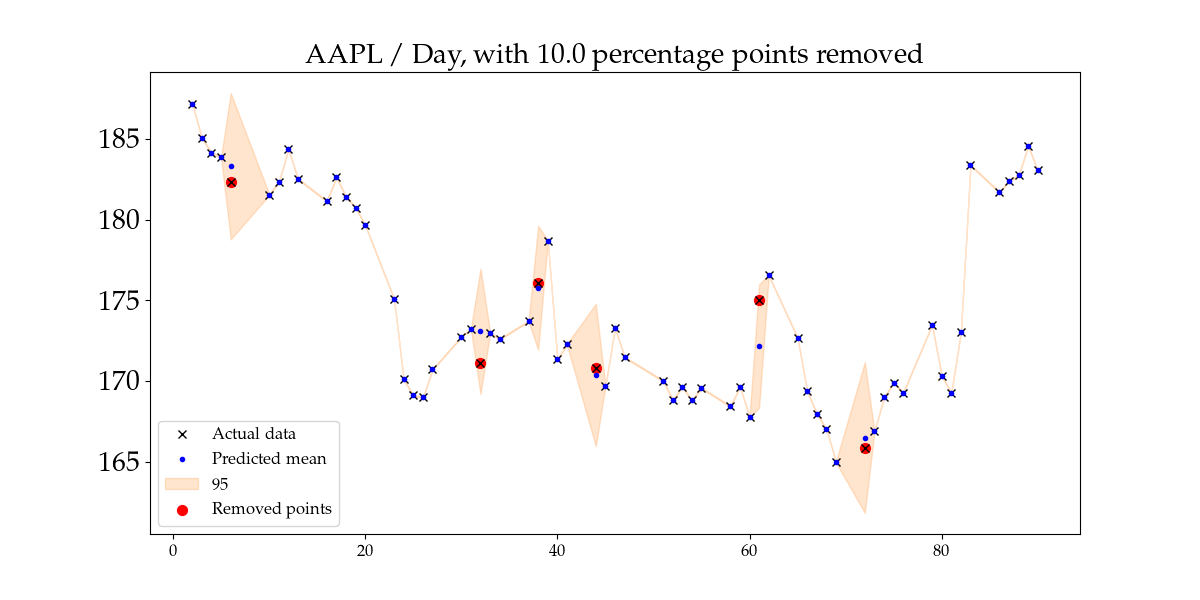
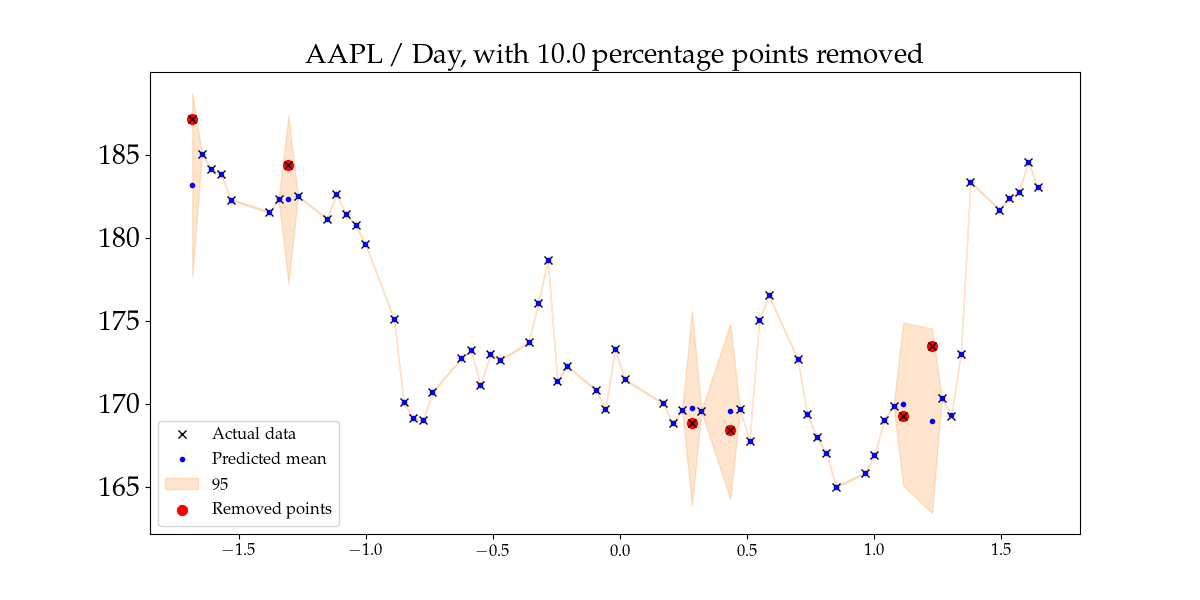
Distinguish kernels and combined_kernels
Distinguish kernels and combined_kernels

diff --git a/Multi-Input_GPR/main.py b/Multi-Input_GPR/main.py
@@ -18,10 +18,11 @@ import tensorflow as tf
 
 class MultiInputGPR:
     
-    def __init__(self, ticker, features, train_start_date, train_end_date, test_start_date, test_end_date, kernel_combinations, threshold, removal_percentage, predict_Y='close', isFixedLikelihood=False):
+    def __init__(self, ticker, features, train_start_date, train_end_date, test_start_date, test_end_date, kernel_combinations, kernels, threshold, removal_percentage, predict_Y='close', isFixedLikelihood=False):
         self.ticker = ticker
         self.features = features
         self.kernel_combinations = kernel_combinations
+        self.kernels = kernels
         self.train_start_date = train_start_date
         self.train_end_date = train_end_date
         self.test_start_date = test_start_date
@@ -157,7 +158,7 @@ class MultiInputGPR:
 
 
         #4. Train the model with the input data and the actual values of to-be-predicted stock data
-        for kernel in self.kernel_combinations:
+        for kernel in self.kernels:
             model = gpflow.models.GPR(
                 (X, Y), kernel=deepcopy(kernel), noise_variance=1e-5
             )
@@ -215,7 +216,7 @@ class MultiInputGPR:
         X_reduced, Y_reduced, X_removed, Y_removed = self.remove_random_points(X, Y, self.removal_percentage)
 
         # 4. Train the model with the reduced data
-        for kernel in self.kernel_combinations:
+        for kernel in self.kernels:
             model = gpflow.models.GPR(
                 (X_reduced, Y_reduced), kernel=deepcopy(kernel), noise_variance=1e-5
             )
@@ -342,6 +343,10 @@ if __name__ == "__main__":
     predict_Y = 'close'
 
 
+    kernels = [
+        gpflow.kernels.Exponential(),
+    ]
+
     kernel_combinations = [  
         (gpflow.kernels.Exponential, gpflow.kernels.Exponential),
        # (gpflow.kernels.Exponential(), gpflow.kernels.SquaredExponential()),
@@ -356,12 +361,13 @@ if __name__ == "__main__":
         test_start_date=test_start_date,
         test_end_date=test_end_date,
         kernel_combinations=kernel_combinations, 
+        kernels=kernels,
         threshold=0.30,
         predict_Y=predict_Y,
         removal_percentage=0.1,
         isFixedLikelihood=False
     )
 
-    multiInputGPR.run_step_3()
+    multiInputGPR.run_step_2()
     plt.show()
 
